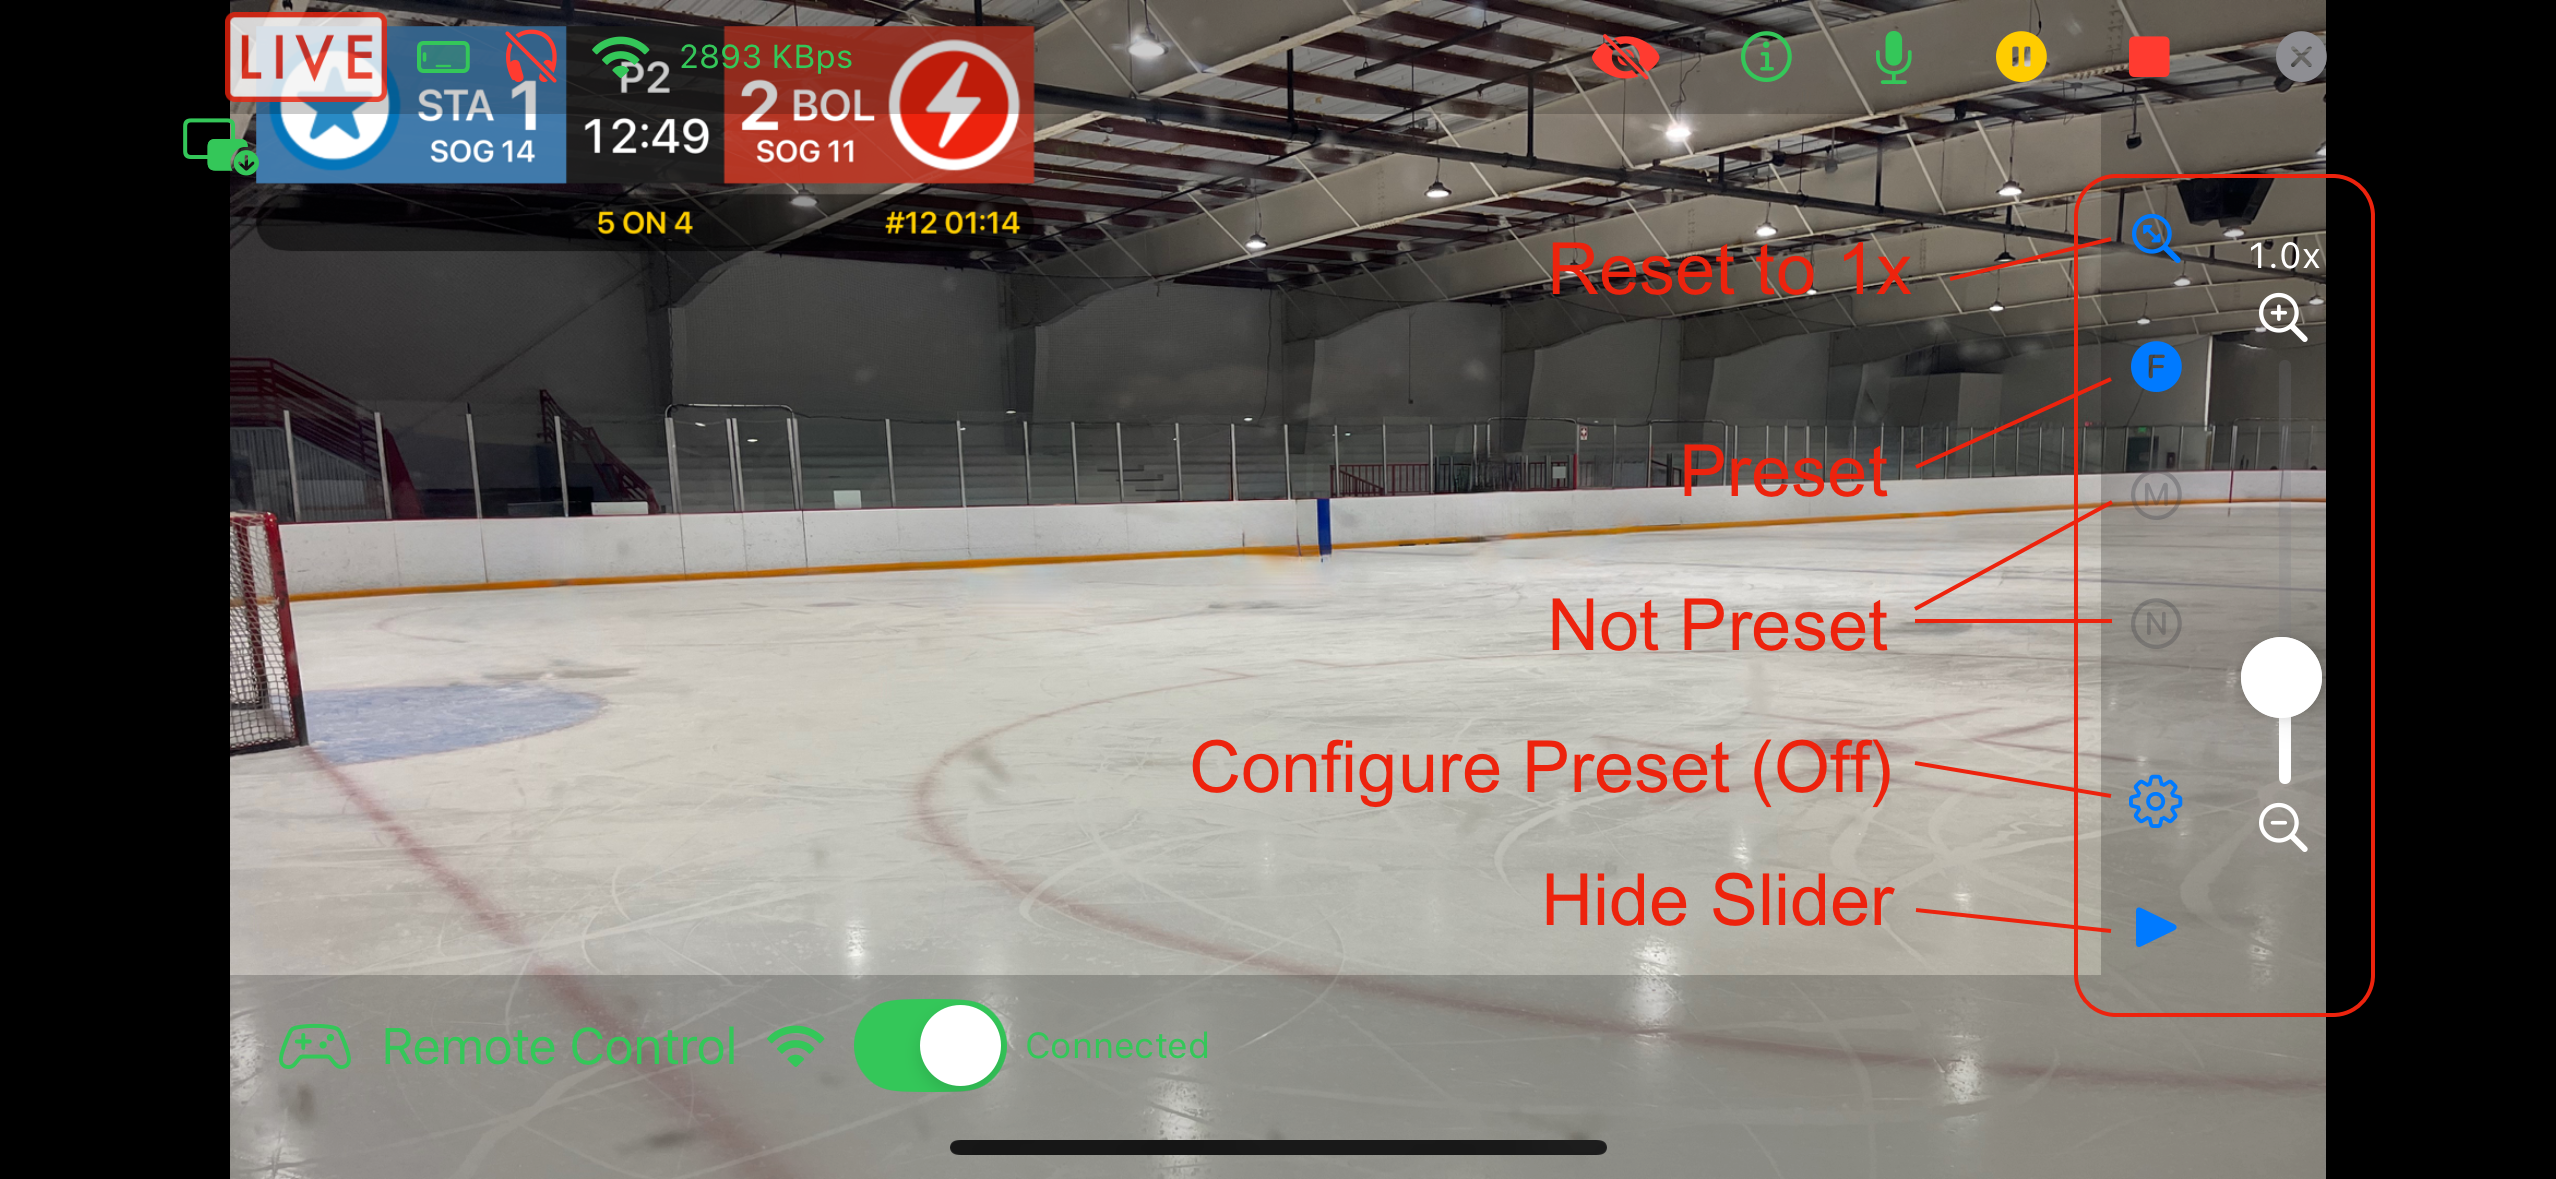
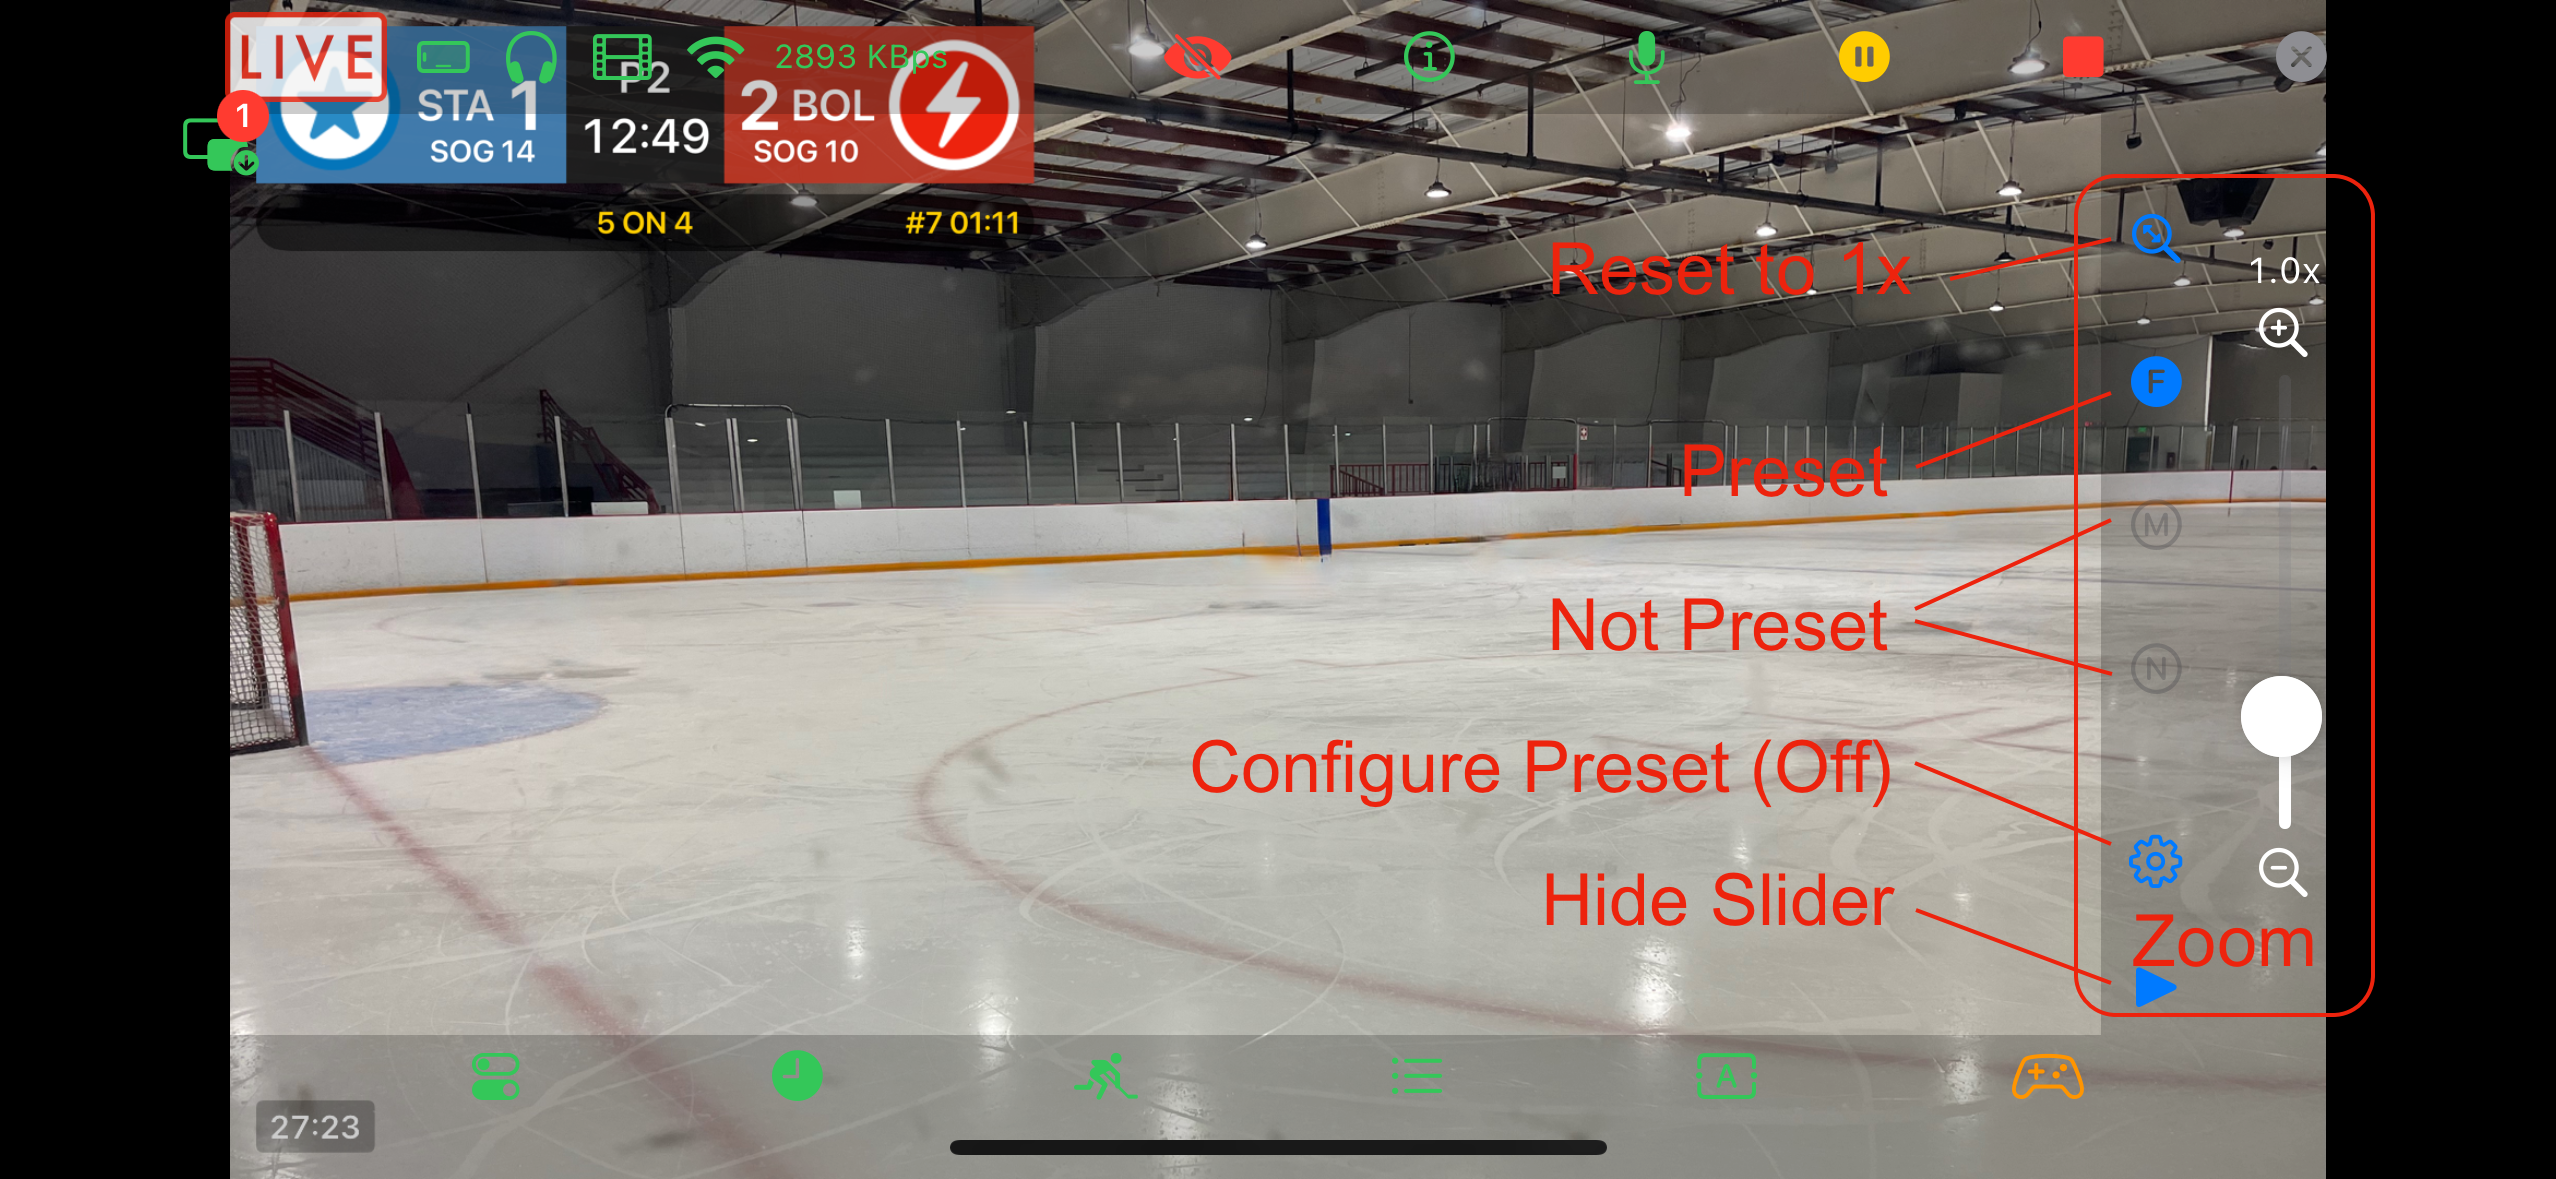
Update Control Options and QCB

diff --git a/myteamlive/control-options-panel.md b/myteamlive/control-options-panel.md
@@ -1,26 +1,45 @@
 ---
 layout: myteamlive
-title: "Control Options Panel"
+title: "Controls Options Panel and Go Live Step (6/7)"
 section_logo: /images/MyTeamLive.png
 section_name: MyTeamLive
 section_url: /myteamlive/index
 ---
 
-Adjust ScoreBug, mute overlay, recording timer, and Stream Brand settings live, without stopping the broadcast.
+Adjust setting for displaying controls and graphics on the broadcast such as the mute indicator, recording timer. These can be set as part of the Go Live steps or by opening the Controls panel in the Broadcaster.
+
+<p style="text-align:center;">
+  <img src="/images/ControlsOptions.png" alt="Quick Control Bar" style="max-width:100%;height:auto;border-radius:12px;">
+</p>
 
 ## Scorebug
-- **Show Scoreboard** shows or hides the scorebug entirely.
-- Hockey adds **Show Clock**, **Penalties** (disabled until Show Clock is on), **Show Shots on Goal**, and **Quick Control Bar** toggles, plus a **Position** picker (Top Left / Top Right).
-- Hockey also has an **Advantage Mode** picker (Manual / Automatic).
-- Soccer has a **Position** picker (Top Left / Top Right).
+- **Show Scorebug** shows or hides the scorebug (only in Control Options Panel)
+- **Show Scorebug Immediately** scorebug starts shown (only in Go Live step)
+- **Scorebug Position** scorebug in Top Left or Top Right
+
+### Hockey Specific
+- **Show Clock**
+- **Penalties** disabled unless Show Clock is on
+- **Show Shots on Goal**
+- **Quick Control Bar**
+- **Advantage Mode** (Manual / Automatic)
+
+Advantage Mode controls the on-ice strength on the scorebug. Automatic updates on-ice strength when penalties are entered. Manual shows a picker for the on-ice strength.
+
+## Recording Timer
+- **Mode** sets the elapsed recording timer mode: Off, Broadcaster (visible only on your screen), or On Stream (visible to your audience)
+- **Position** Timer in Bottom Left or Bottom Right
+
+Position is disabled when Mode is Off. The position cannot be the same as the Stream Brand position.
+
+## Stream Brands
+- **Position** Brand in Bottom Left or Bottom Right
+
+Disabled when no Stream Brand image is configured. The position cannot be the same as the Recording Timer position.
+
+Learn how to configure a Stream Brand in the [Messages Tab](messages-tab).
 
 ## Muted Overlay
 - **Size** sets the muted icon size: None, Small, or Large.
 - **Position** sets where a Small icon appears: Centered, Top Left, or Top Right. Position is disabled when Size is None or Large (Large is always centered).
 
-## Recording Timer
-- **Timer** sets the elapsed recording timer mode: Off, Broadcaster (visible only on your screen), or On Stream (visible to your audience).
-- **Position** sets the timer's corner: Bottom Left or Bottom Right. Disabled when Timer is Off.
-
-## Stream Brands
-- **Position** sets the Stream Brand's corner: Bottom Left or Bottom Right. Disabled when no Stream Brand image is configured. Learn more in the [Stream Brands guide](messages-tab).

diff --git a/myteamlive/quick-control-bar.md b/myteamlive/quick-control-bar.md
@@ -6,13 +6,13 @@ section_name: MyTeamLive
 section_url: /myteamlive/index
 ---
 
-The Hockey Quick Control Bar is a compact floating panel that gives you one-tap access to the in-game controls without opening any panel.
+The Hockey Quick Control Bar is a compact floating panel that gives you one-tap access to clock and penalty controls without opening any panel.
 
 <p style="text-align:center;">
   <img src="/images/CameraViewQuickControlBar.png" alt="Quick Control Bar" style="max-width:100%;height:auto;border-radius:12px;">
 </p>
 
-It is only available when using the Hockey scorebug and can be enabled or disabled in the Hockey ScoreBug settings on the Go Live Controls step, or via the **Quick Control Bar** toggle in the [Scoreboard Panel](scoreboard-panel).
+It is only available when using the Hockey scorebug and can be enabled or disabled in the Hockey ScoreBug settings on the Go Live Controls step, or via the **Quick Control Bar** toggle in the [Control Options Panel](control-options-panel).
 
 ## When the Clock Is Enabled
 
@@ -20,11 +20,14 @@ The bar shows:
 
 - The current clock time.
 - A **Start/Stop** button to run or pause the game clock.
+
+## When Penalties are Enabled
+
 - Active penalty clocks for Away and Home — tap a penalty to clear it.
 
 If there are no active penalties, the display shows "None".
 
-## When the Clock Is Disabled
+## When the Clock or Penalties Are Disabled
 
 The bar shows:
 